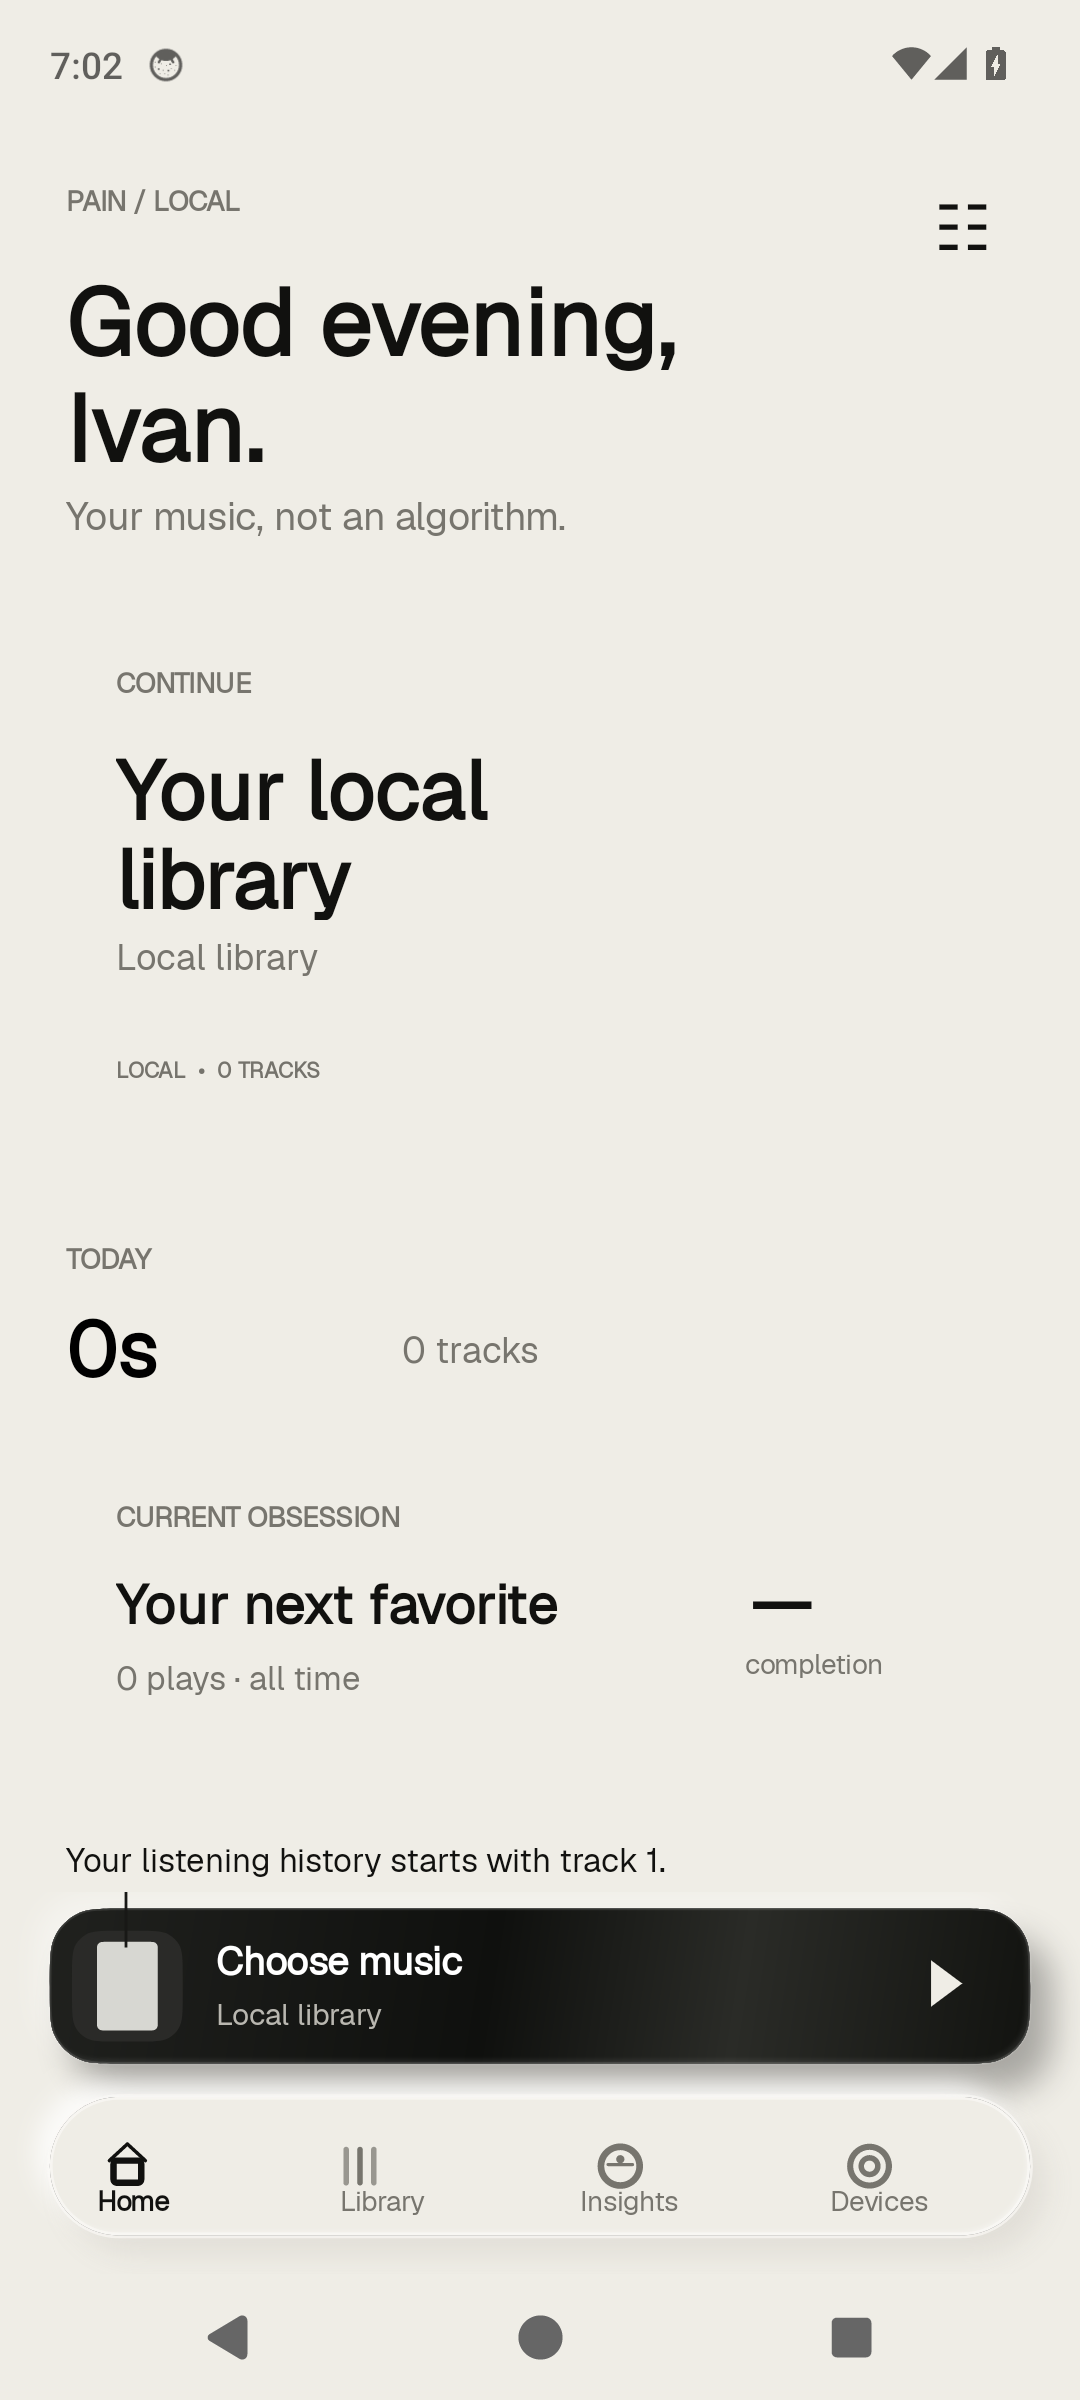
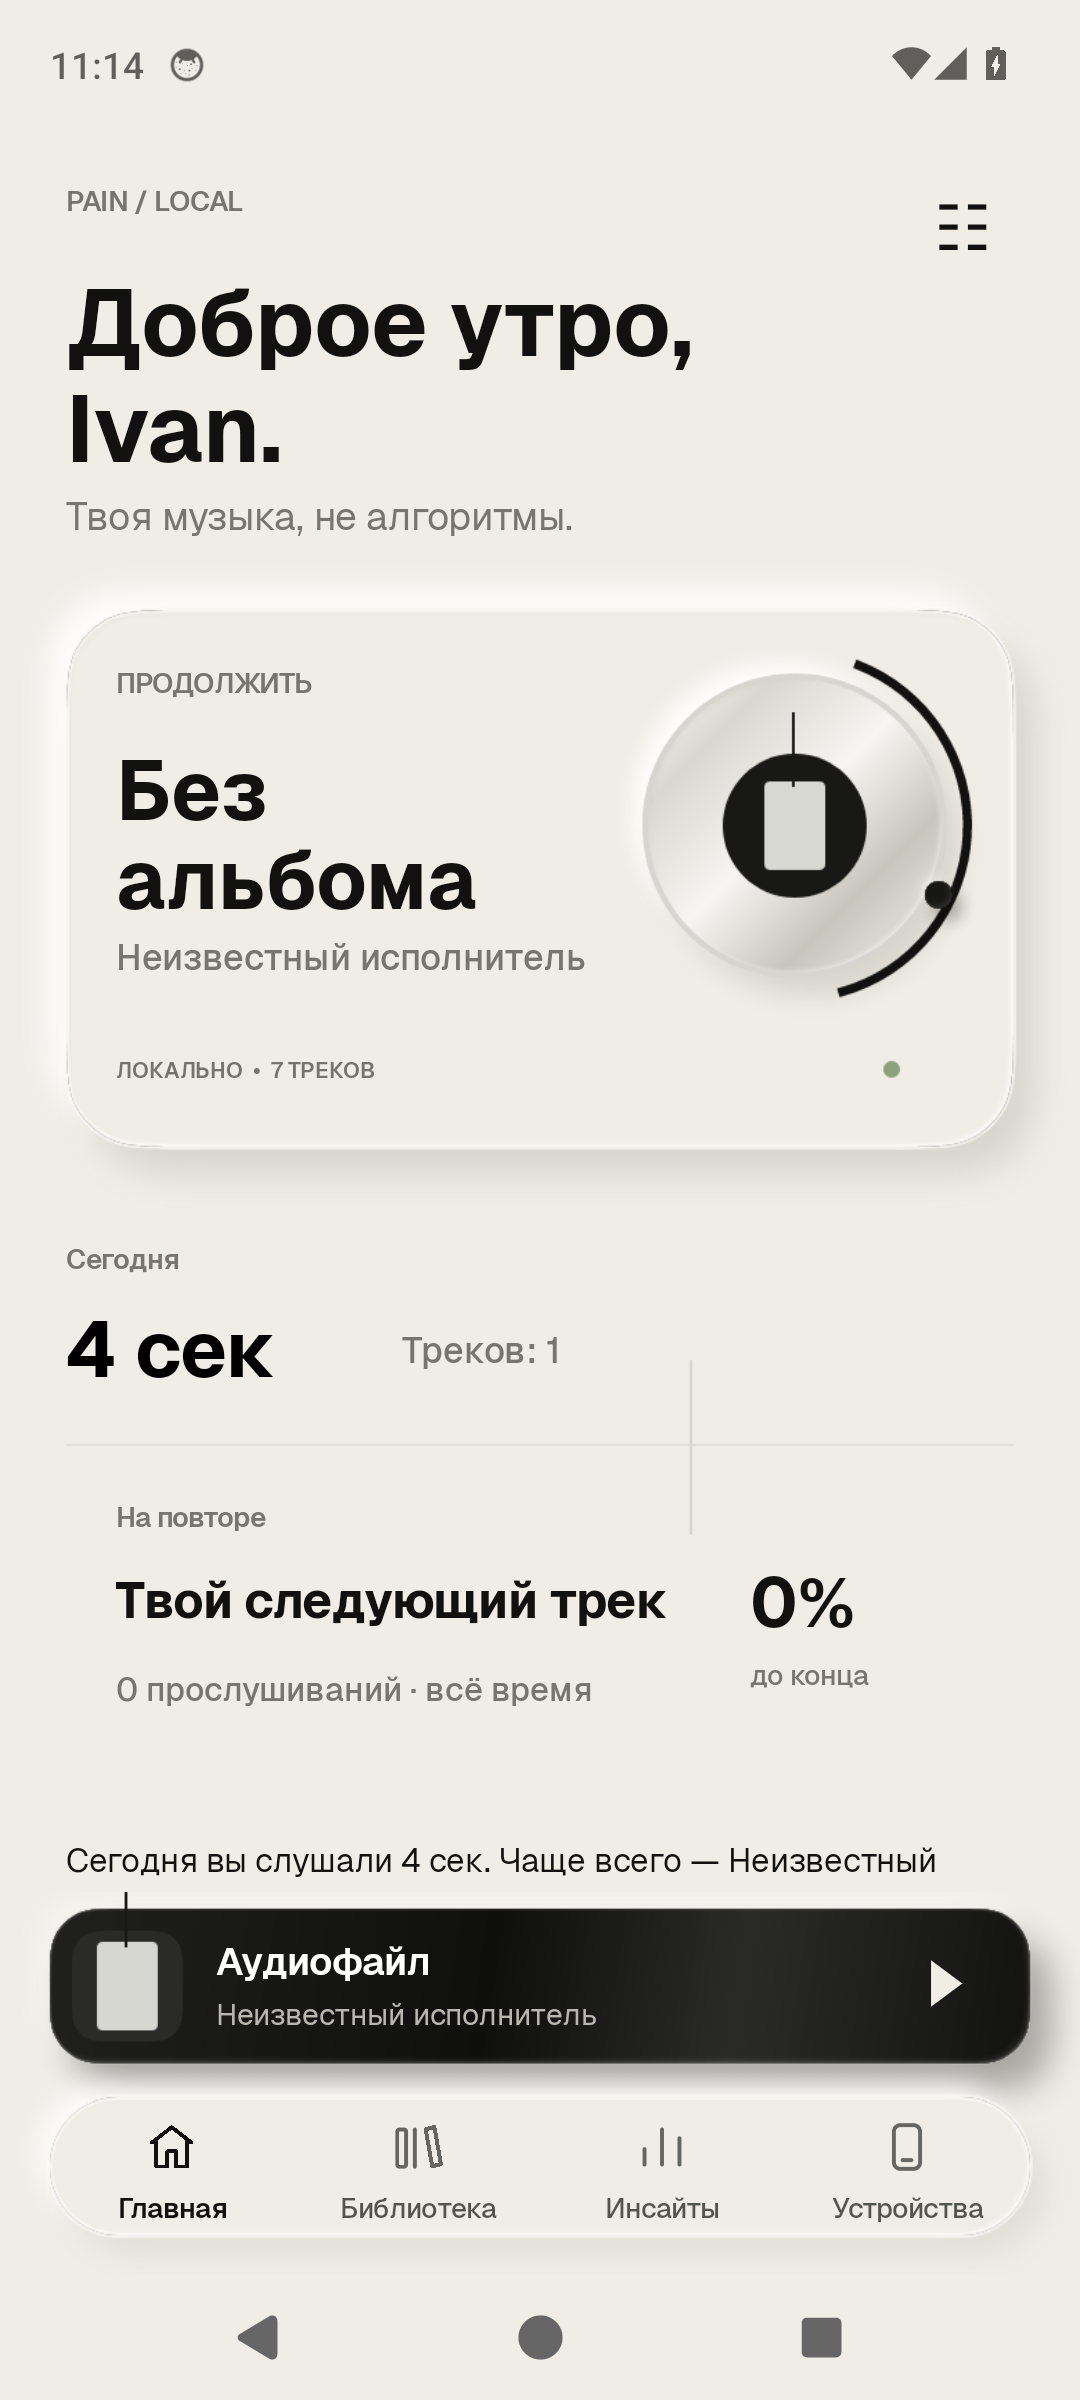
docs: update README with refreshed screenshots for desktop and mobile

diff --git a/README.md b/README.md
@@ -9,10 +9,14 @@
 ## ⚡ Главные фишки
 
 - **Полная синхронизация ПК ↔ Телефон**:
-  - Всё синхронизируется в реальном времени: треки, кастомные плейлисты, лайки и история.
+  - Всё синхронизируется в реальном времени по локальному Wi-Fi: треки, кастомные плейлисты, лайки и история.
   - Лайкнул трек на компьютере — он моментально появился в «Избранном» на телефоне.
   - Статистика объединяется: где бы ты ни слушал музыку, чарты и часы прослушивания актуальны везде.
-  - Стриминг аудио напрямую с телефона по сети без проводов + кэширование на ПК для офлайн-игры.
+  - Стриминг аудио напрямую с телефона по сети без проводов + умное кэширование на ПК для офлайн-игры.
+
+- **Караоке и текст песен**:
+  - Синхронизированный построчный текст (.lrc и локальное хранилище) с плавной подсветкой текущей строки.
+  - Встроенный редактор отметок времени прямо во время прослушивания — полностью автономно и без интернета.
 
 - **Медиатека и умное управление**:
   - Два режима отображения: крупная сетка карточек с обложками или аккуратный список строк.
@@ -39,22 +43,28 @@
 
 ### Компьютер (Windows & Linux)
 <p align="center">
-  <img src="docs/screenshots/desktop_library.png" width="49%" alt="Библиотека" />
-  <img src="docs/screenshots/desktop_favorites.png" width="49%" alt="Избранное" />
+  <img src="docs/screenshots/desktop_library.png" width="49%" alt="Фонотека ПК" />
+  <img src="docs/screenshots/desktop_favorites.png" width="49%" alt="Избранное с аурой" />
 </p>
 <p align="center">
-  <img src="docs/screenshots/desktop_insights.png" width="49%" alt="Статистика" />
+  <img src="docs/screenshots/desktop_insights.png" width="49%" alt="Статистика и аналитика" />
+  <img src="docs/screenshots/desktop_karaoke.png" width="49%" alt="Караоке и текст песен" />
+</p>
+<p align="center">
   <img src="docs/screenshots/desktop_player.png" width="49%" alt="Виниловый плеер" />
-</p>
-<p align="center">
-  <img src="docs/screenshots/desktop_equalizer.png" width="60%" alt="Эквалайзер" />
+  <img src="docs/screenshots/desktop_equalizer.png" width="49%" alt="10-полосный эквалайзер" />
 </p>
 
 ### Телефон (Android)
 <p align="center">
-  <img src="docs/screenshots/android_home.png" width="31%" alt="Android Главная" />
-  <img src="docs/screenshots/android_player.png" width="31%" alt="Android Плеер" />
-  <img src="docs/screenshots/android_library.png" width="31%" alt="Android Фонотека" />
+  <img src="docs/screenshots/android_home.png" width="32%" alt="Android Главная" />
+  <img src="docs/screenshots/android_player.png" width="32%" alt="Android Плеер" />
+  <img src="docs/screenshots/android_library.png" width="32%" alt="Android Фонотека" />
+</p>
+<p align="center">
+  <img src="docs/screenshots/android_insights.png" width="32%" alt="Android Инсайты" />
+  <img src="docs/screenshots/android_karaoke.png" width="32%" alt="Android Караоке" />
+  <img src="docs/screenshots/android_sync.png" width="32%" alt="Android Синхронизация" />
 </p>
 
 ---
@@ -62,12 +72,12 @@
 ## 🚀 Установка и запуск
 
 ### 📱 Android
-Скачай свежий [**`Pain-v1.1.1-Android.apk`**](../../releases/latest) и установи на телефон.
+Скачай свежий [**`Pain-v1.2.0-Android.apk`**](../../releases/latest) и установи на телефон.
 
 ### 💻 Windows
 В [Releases](../../releases/latest) доступны:
 - **`Pain.exe`** — автономный файл, запускается двойным кликом (установка не требуется, Node.js не нужен).
-- **`Pain-v1.1.1-Windows.zip`** — переносной архив с ярлыком на рабочий стол.
+- **`Pain-v1.2.0-Windows.zip`** — переносной архив с ярлыком на рабочий стол.
 
 ### 🐧 Linux (Arch / Ubuntu / Debian / Fedora)
 - **Установка в системное меню приложений:**
@@ -83,3 +93,4 @@
 ## Лицензия
 
 MIT License.
+
